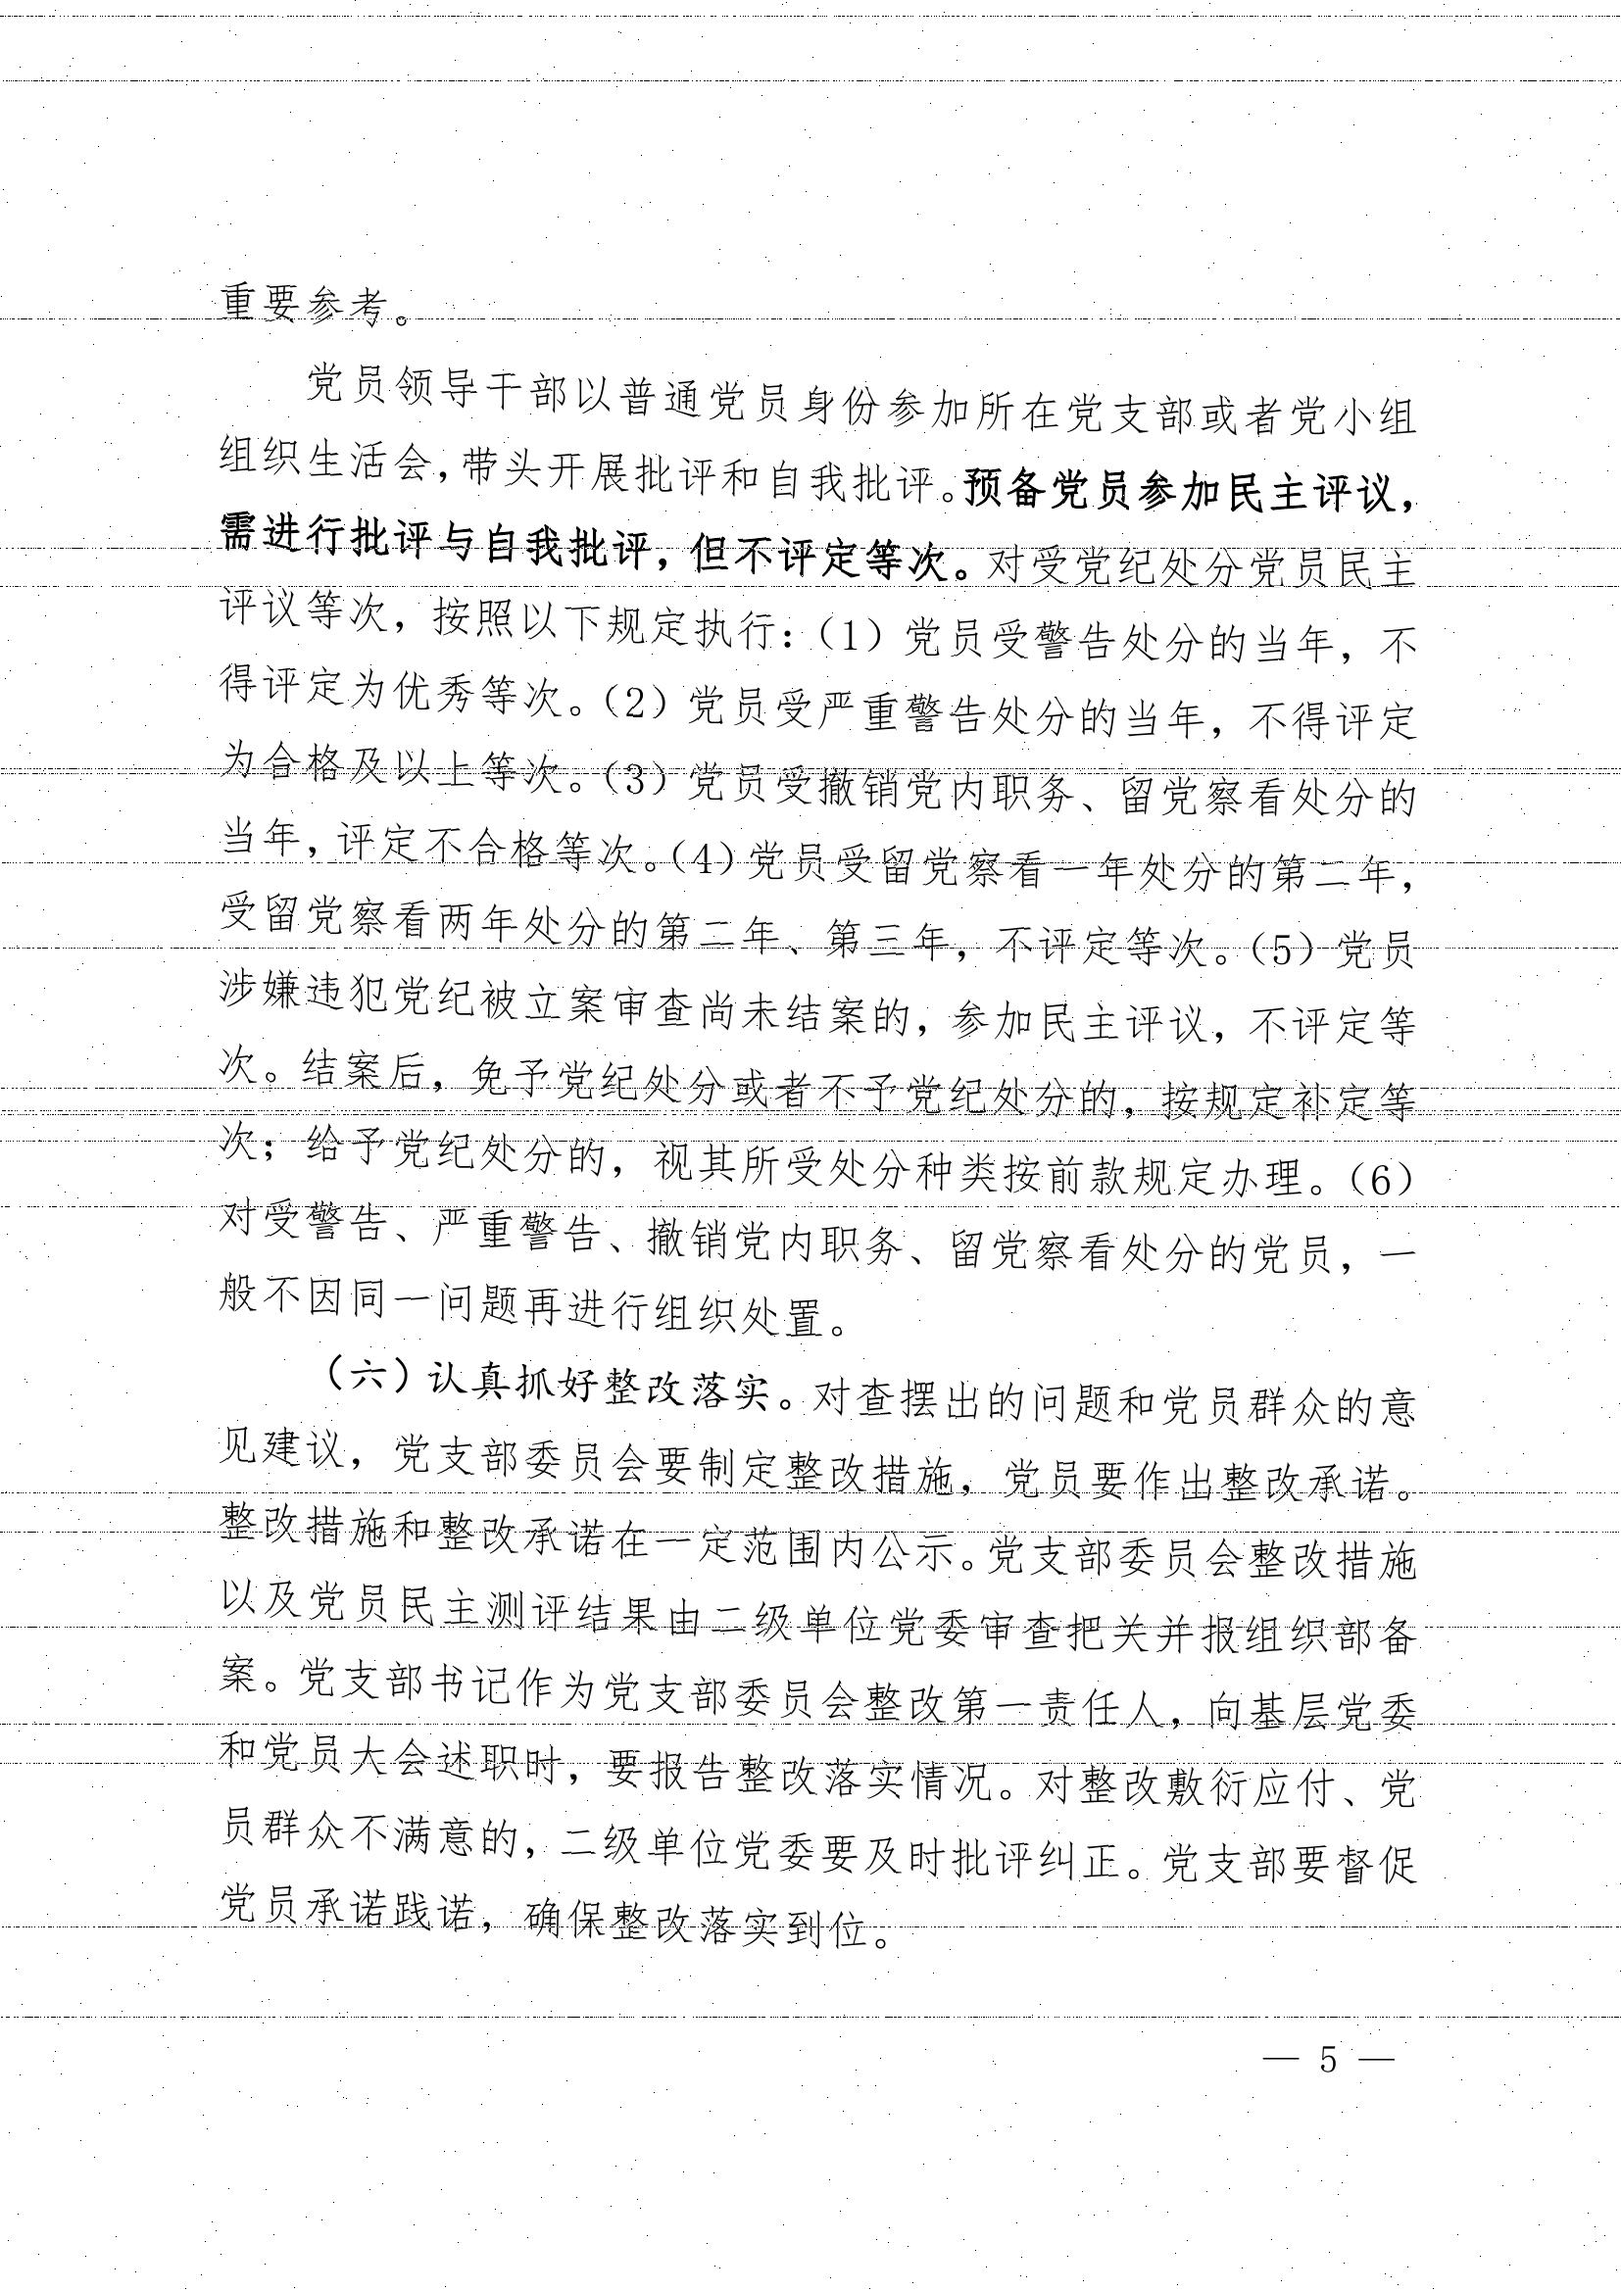
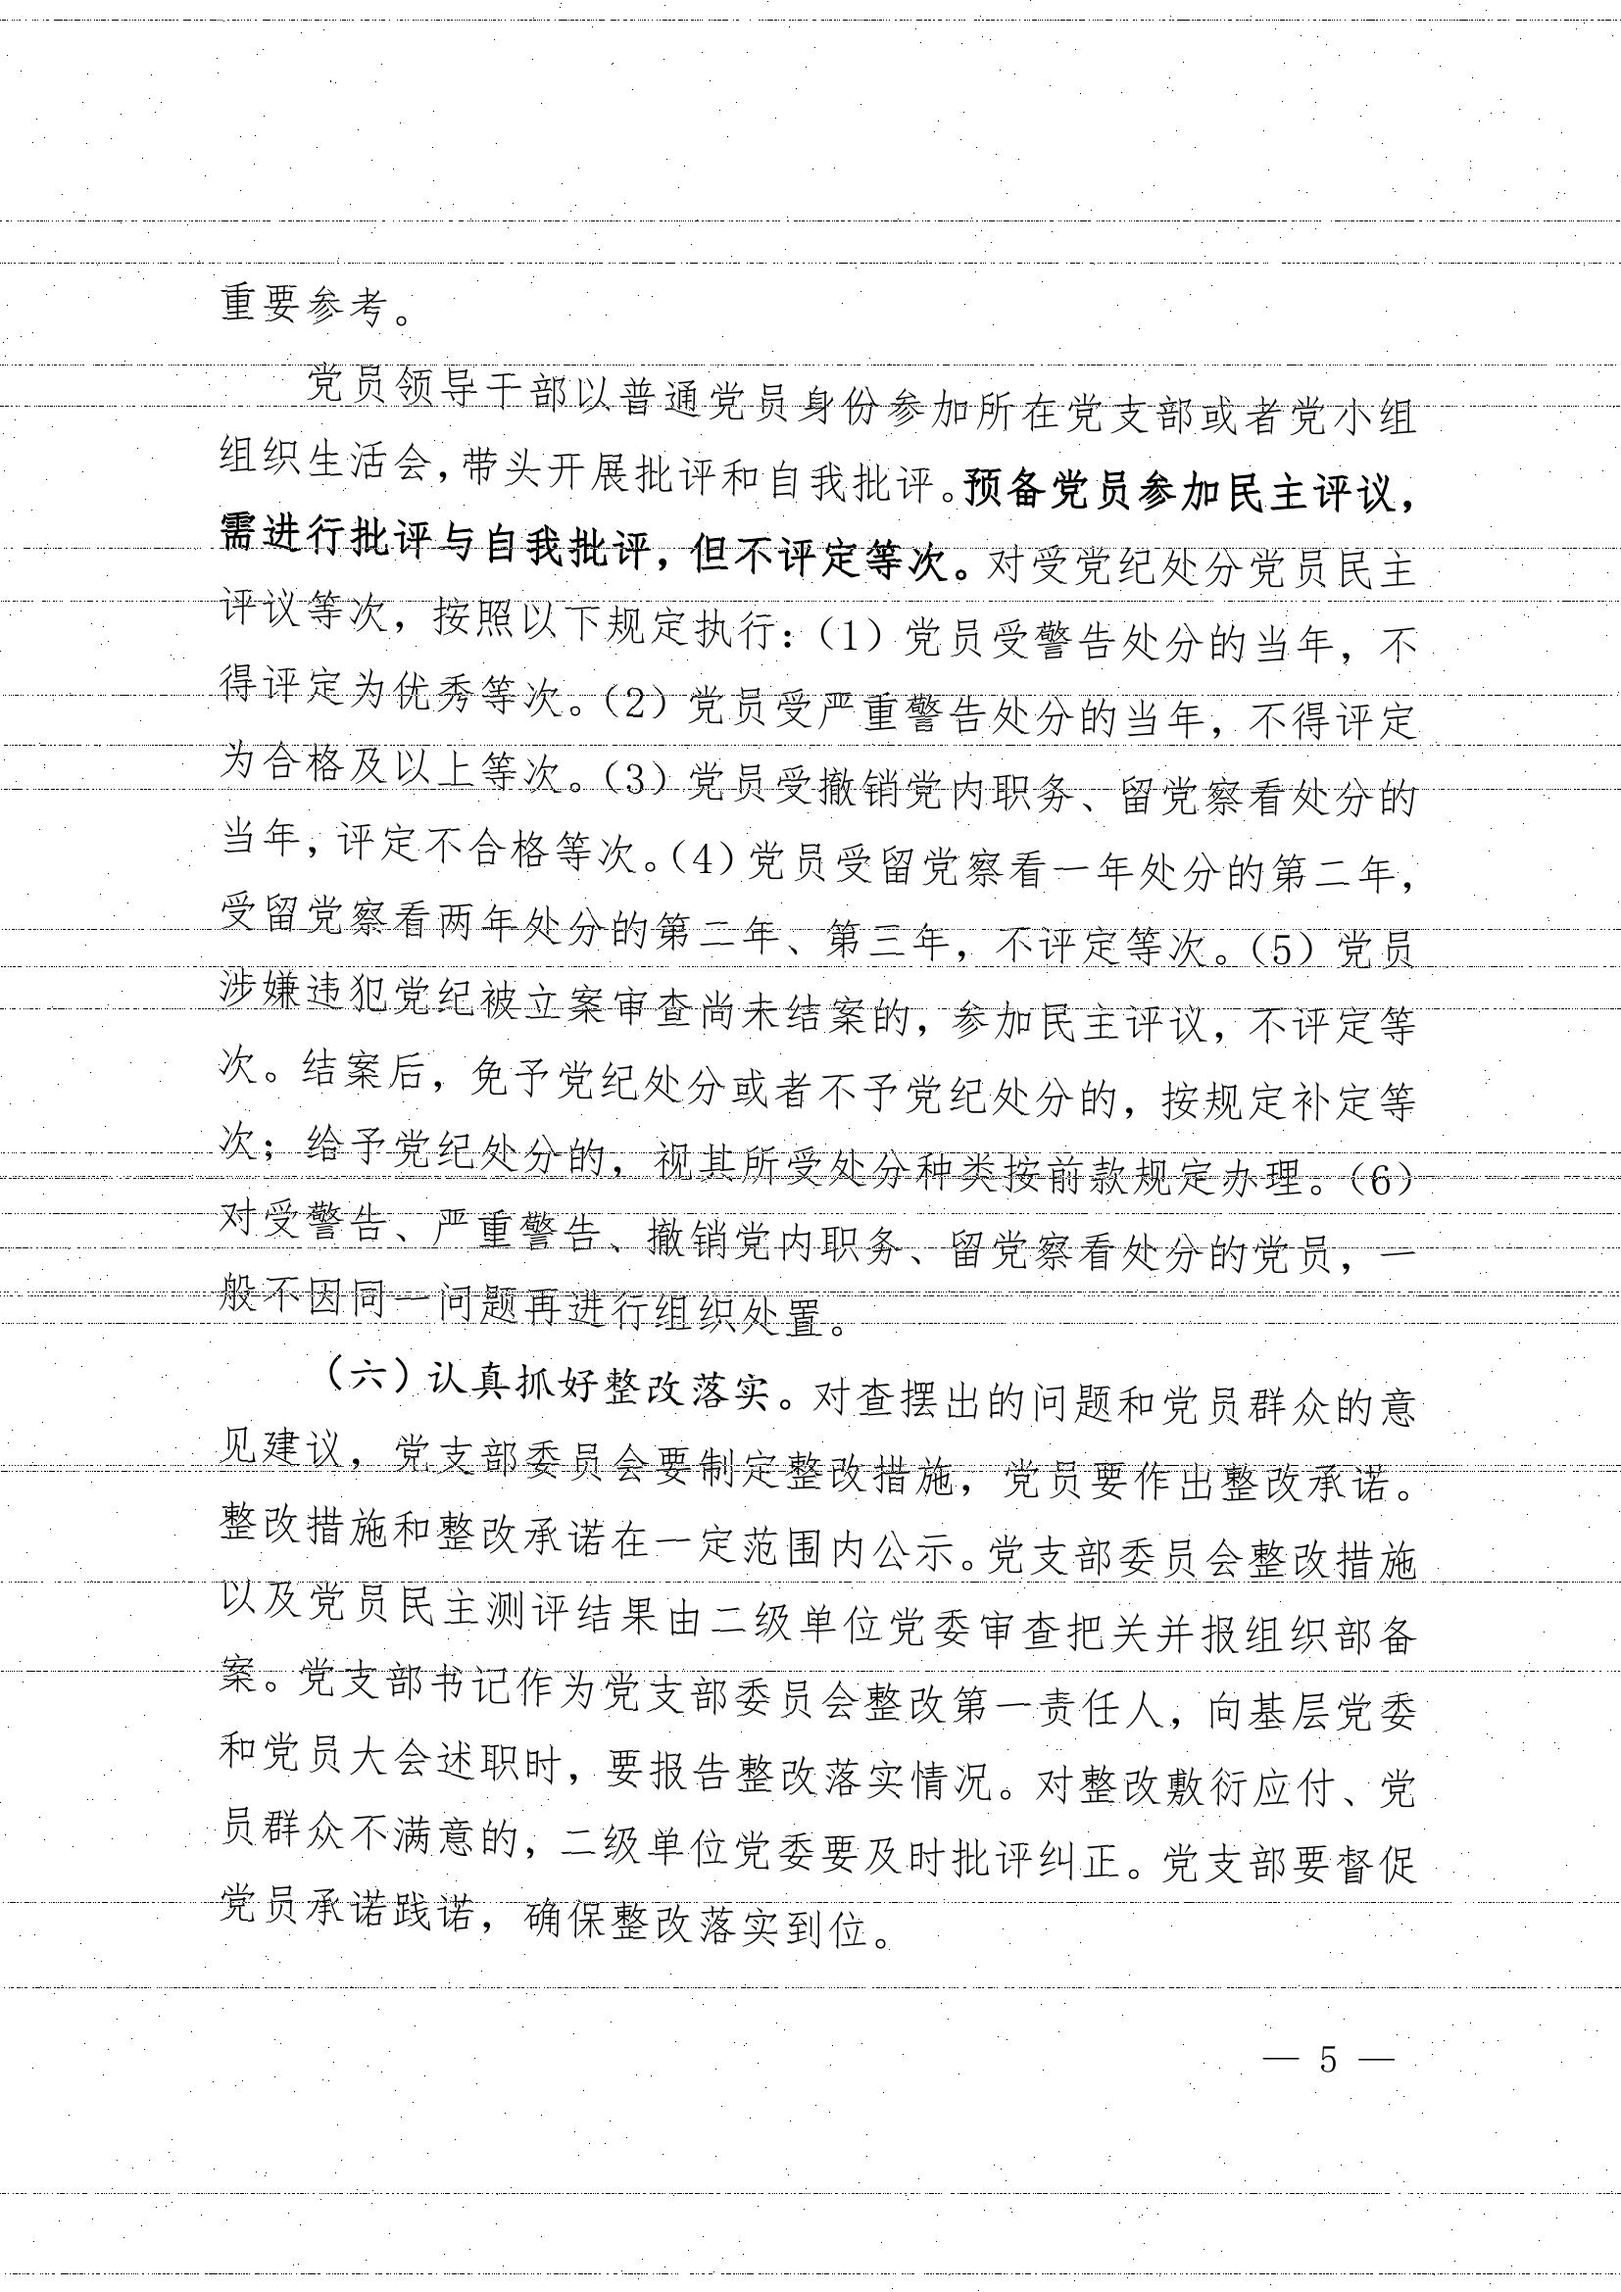
mutil photo effect

diff --git a/effects/photo_effect.py b/effects/photo_effect.py
@@ -11,7 +11,7 @@ class PhotoEffect:
         self.coordinate = [
             {
                 'filename': 'background1.jpg',
-                'coordinate': [[139, 167], [1033, 65], [1183, 1493], [136, 1474]]
+                'coordinate': [[122, 122], [651, 134], [815, 926], [-30, 918]]
             },
             {
                 'filename': 'background2.jpg',
@@ -31,15 +31,15 @@ class PhotoEffect:
             },
             {
                 'filename': 'background6.jpg',
-                'coordinate': [[202, 198], [1088, 201], [1069, 1413], [248, 1414]]
+                'coordinate': [[129, 467], [398, -15], [1169, 355], [832, 897]]
             },
             {
                 'filename': 'background7.jpg',
-                'coordinate': [[92, 255], [947, 88], [1053, 1597], [80, 1489]]
+                'coordinate': [[105, 381], [117, 94], [536, 100], [538, 392]]
             },
             {
                 'filename': 'background8.jpg',
-                'coordinate': [[100, 272], [893, 181], [989, 1461], [75, 1449]]
+                'coordinate': [[114, 487], [107, 104], [663, 92], [677, 481]]
             }
         ]
         self.background_path = 'effects/background/'
@@ -51,8 +51,6 @@ class PhotoEffect:
         # bgr_image_array = cv2.cvtColor(image_array, cv2.COLOR_RGB2BGR)
         # 将NumPy数组转换为OpenCV的图像对象
         image = cv2.cvtColor(image_array, cv2.COLOR_BGR2RGB)
-
-        cv2.imwrite('x.jpg', image)
 
         height, width, _ = image.shape
 
@@ -78,12 +76,9 @@ class PhotoEffect:
         # 将背景图像与透视变换后的图像相结合
         result = cv2.bitwise_and(background, transformed_image)
 
-        cv2.imwrite('y.jpg', result)
-
         # 将OpenCV图像对象转换为RGB模式
         rgb_image = cv2.cvtColor(result, cv2.COLOR_BGR2RGB)
         # 创建Pillow的Image对象
         result = Image.fromarray(rgb_image)
 
-        result.save("z.jpg", "JPEG")
         return result

diff --git a/main_pdf.py b/main_pdf.py
@@ -14,7 +14,7 @@ orc = OCR.main
 judge = Judge('./judge/keyword.dic')
 effect = Effect(type='scan')
 
-# 显示将pdf转换为图像，后面过程同main_jpg
+# 先将pdf转换为图像，后面过程同main_jpg
 
 
 def main():

diff --git a/README.md b/README.md
@@ -1,22 +1,58 @@
-### 总体介绍
-执行下面代码，遍历input文件夹中的jpg文件，输出到output文件
+# 环境安装
+创建虚拟环境
+```
+conda create --name pic python=3.8
+```
+安装python依赖
+```
+pip install -r requirements.txt
+```
+# 总体介绍
+
+执行下面代码，遍历 input 文件夹中的 jpg 文件，输出到 output 文件
+
 ```
 python main_jpg.py
 ```
-执行下面代码，遍历input文件夹中的pdf文件，输出到output文件
+
+执行下面代码，遍历 input 文件夹中的 pdf 文件，输出到 output 文件
+
 ```
 python main_pdf.py
 ```
 
-### 文件/文件夹介绍
-***requirement.txt*** python依赖包
-***test/*** 开发用于测试
-***effect/*** 特效，目前有模拟扫描和拍照的，其中background/存放拍照模拟拍照效果时的背景图
-***erase/*** 抹去关键字，目前有马赛克和全黑
-***input/*** 存放输入的文件
-***output/*** 存放输出的文件
-***judge/*** 判断是否文关键字，其中keyword.dic存放关键字，每个关键字空格隔开
-***ocr/*** 对图像进行ocr，目前有调用阿里api、tesseract、paddleocr，由于paddleocr最快最准，现在只是用paddleocr
-***pdf_to_image/*** 将pdf转换为图片（jpg）
-~~***tessdata/*** 使用tesseract进行ocr时，对简体中文的识别包，现在不需要~~ 
+# 文件/文件夹介绍
 
+**_requirement.txt_** python 依赖包
+
+**_test/_** 开发用于测试
+
+**_effect/_** 特效，目前有模拟扫描和拍照的，其中 background/存放拍照模拟拍照效果时的背景图
+
+**_erase/_** 抹去关键字，目前有马赛克和全黑
+
+**_input/_** 存放输入的文件
+
+**_output/_** 存放输出的文件
+
+**_judge/_** 判断是否文关键字，其中 keyword.dic 存放关键字，每个关键字空格隔开
+
+**_ocr/_** 对图像进行 ocr，目前有调用阿里 api、tesseract、paddleocr，由于 paddleocr 最快最准，现在只是用 paddleocr
+
+**_pdf_to_image/_** 将 pdf 转换为图片（jpg）
+
+~~**_tessdata/_** 使用 tesseract 进行 ocr 时，对简体中文的识别包，现在不需要~~
+
+# 功能介绍
+对文档（图片或pdf）进行orc，对关键字进行打码，模拟成扫描/拍照，输出图片
+
+## ocr
+使用paddleorc
+## 打码
+对关键字进行打码，有马赛克、全黑效果
+## 模拟扫描效果
+使用Pillow，按遍历像素，首先对图片根据蜷曲函数进行蜷曲，然后一定概率增加白扫描线或黑扫描线，然后一定概率增加噪点
+## 模拟拍照效果
+使用opencv对图像进行透视变换，然后按位与操作与背景图合并起来。
+
+添加背景图：将背景图添加至‘./effects/background’目录下，并在‘./effects/photo_effect.py’中添加坐标。
